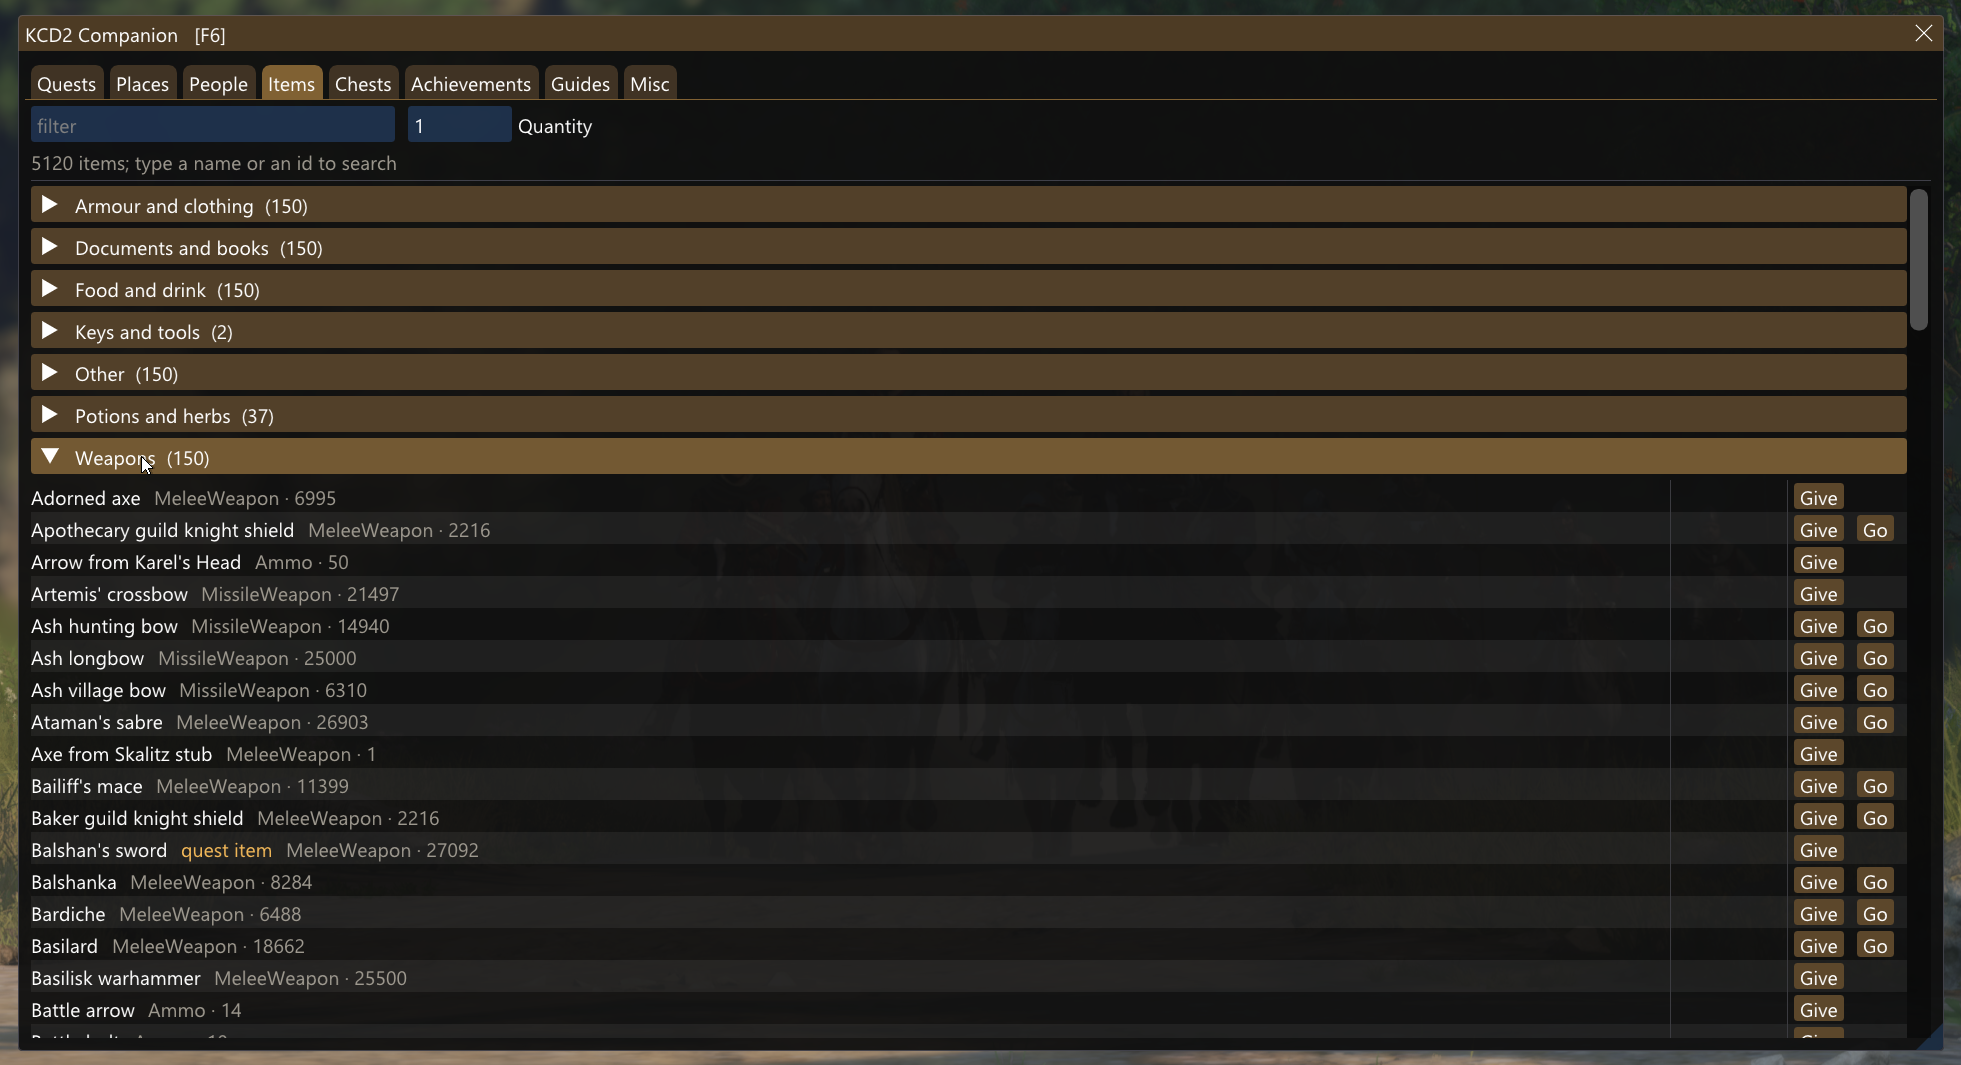
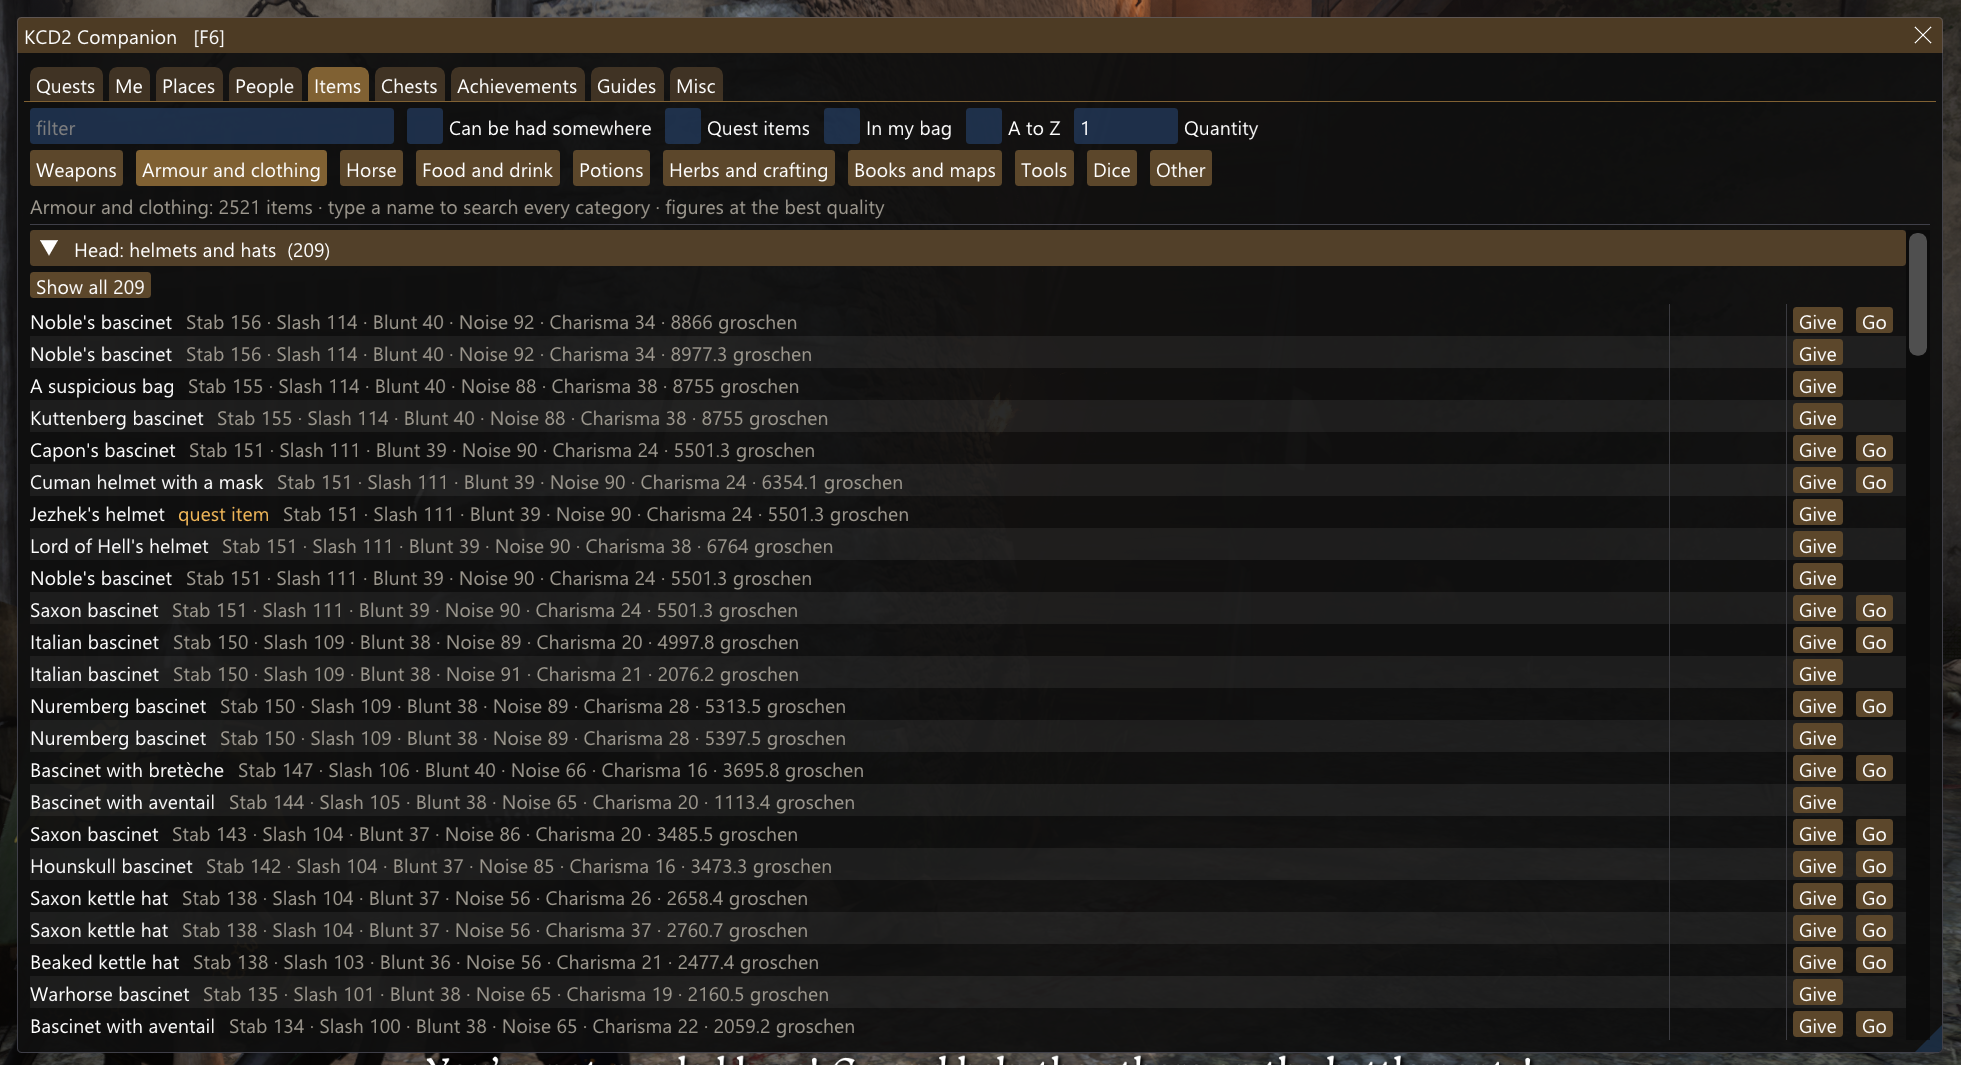
KCD2 Companion 1.1.0: Items laid out like a shop; link KCD Companion

diff --git a/README.md b/README.md
@@ -1,6 +1,6 @@
 # KCD2 Companion
 
-The full suite for **Kingdom Come: Deliverance II**, in one window inside the game (**F6**) or a browser panel on a second screen. **Quests**: go straight to your current objective, or skip the busywork up to the next real decision. **Items**: give yourself any of the game's 5,120 items, or go to where one is sold or lying. **Achievements**: see which of the 83 you have and the quest that grants each, and unlock any of them. Then Henry's stats, skills and money, nine cheat modes, and every person, place and chest around you. The decisions stay yours: an objective that can end more than one way shows each ending, and the mod never picks one.
+The full suite for **Kingdom Come: Deliverance II**, in one window inside the game (**F6**) or a browser panel on a second screen. **Quests**: go straight to your current objective, or skip the busywork up to the next real decision. **Items**: all 5,120 laid out like a shop, best first with their damage, armour and price; give yourself any of them, or go to where one is sold or lying. **Achievements**: see which of the 83 you have and the quest that grants each, and unlock any of them. Then Henry's stats, skills and money, nine cheat modes, and every person, place and chest around you. The decisions stay yours: an objective that can end more than one way shows each ending, and the mod never picks one.
 
 ![The F6 window: Quests](screenshots/quests.png)
 
@@ -12,23 +12,23 @@ The full suite for **Kingdom Come: Deliverance II**, in one window inside the ga
 ## Features
 
 - **Quests**: every current objective with **Go** (to its marker), **Summon** (when the marker is a person) and **Skip** (through the quest's own trigger, so the game's consequences run). **Skip to next decision** completes busywork one step at a time and stops at a decision, a conversation or a scene, then takes you there. Views of every objective and every open ending.
-- **Items**: all 5,120 items; **Give** any quantity; **Go** to the shops, chests and spots one can be had, nearest first.
+- **Items**: all 5,120 in a category bar like the inventory's (weapons, armour and clothing, horse, food and drink, potions, herbs and crafting, books and maps, tools, dice, other), each category in the groups you look for: swords to firearms, helmet to boots, healing to poison, skill books by skill and volume. Best first, with the damage, defence, power, noise, charisma or nourishment and the price beside each name, as the inventory shows them at the item's best quality. **Give** any quantity; **Go** to the shops, chests and spots one can be had, nearest first.
 - **Achievements**: all 83 Steam achievements with your earned state, each with the quest that grants it where the game says; **Unlock** sets an unearned one on your Steam account.
 - **Me**: health, stamina, nourishment and energy (refill one or all), groschen in steps up to +10,000, the four attributes and fifteen skills (+1 / +5 / Max).
 - **Misc**: Save now (no schnapps), Bring my horse, and nine **cheat modes**: God mode, Infinite stamina, Never hungry or tired, Unseen and unheard, Run twice as fast, Hit twice as hard, Gear never wears, Carry far more, Learn three times as fast.
 - **People**: everyone loaded around you, by in-game name, with Go and Summon.
 - **Places**: villages, towns, monasteries and camps with their shops, smithies, alchemy tables, grindstones, baths, barbers and beds; **Mark** and **Back**.
 - **Chests**: every container in the level, locked ones marked.
-- **Views** on every long list: items that can be had somewhere, quest items, what is in your bag, most valuable first; locked, unlocked or stocked chests; people within 50 m; shops or services only.
+- **Views** on every long list: items that can be had somewhere, quest items, what is in your bag, A to Z; locked, unlocked or stocked chests; people within 50 m; shops or services only.
 - **F8** goes to the tracked quest's nearest current objective.
 - Jumps work on foot and on horseback, land on the floor under roofs and trees, and never inside a trigger area.
 - **Languages**: English and Chinese for now, picked by your game's language setting; names, objectives and journal lines always come from the game's own text, in whatever language it runs.
 
 ## Install
 
-**Installer**: download **`KCD2-Companion-1.0.0-Installer.exe`** from the [latest release](../../releases) and run it. It finds the game through Steam (or paste the game folder), installs with one click, updates and uninstalls, and shows the panel in its own window while the game runs. Windows may warn about an unknown publisher: More info > Run anyway.
+**Installer**: download **`KCD2-Companion-1.1.0-Installer.exe`** from the [latest release](../../releases) and run it. It finds the game through Steam (or paste the game folder), installs with one click, updates and uninstalls, and shows the panel in its own window while the game runs. Windows may warn about an unknown publisher: More info > Run anyway.
 
-**Manual**: download **`KCD2-Companion-1.0.0.zip`** from the same release and extract it into the game folder (Steam: right-click the game > Manage > Browse local files), keeping its folders. Start the game and load a save; press **F6**, or open **http://127.0.0.1:17602** in a browser on the same PC. `INSTALL.txt` in the zip lists every file it adds; deleting them uninstalls it.
+**Manual**: download **`KCD2-Companion-1.1.0.zip`** from the same release and extract it into the game folder (Steam: right-click the game > Manage > Browse local files), keeping its folders. Start the game and load a save; press **F6**, or open **http://127.0.0.1:17602** in a browser on the same PC. `INSTALL.txt` in the zip lists every file it adds; deleting them uninstalls it.
 
 Also on Nexus Mods: https://www.nexusmods.com/kingdomcomedeliverance2/mods/3812
 
@@ -38,7 +38,7 @@ Built and tested on Steam build **1.5.6** (23914554). The plugin reads the game'
 
 ## Kingdom Come: Deliverance (the first game)
 
-The first game's trainer is **Quest Autopilot** on Nexus Mods: https://www.nexusmods.com/kingdomcomedeliverance/mods/2226. Its full version, with the same window, panel and tabs as this one, will be released as **KCD Companion**.
+The first game's trainer, with the same window, panel and tabs, is **KCD Companion**: https://github.com/registered2nd/kcd-companion (Nexus Mods: https://www.nexusmods.com/kingdomcomedeliverance/mods/2406). Quest Autopilot is part of it.
 
 ## Credits
 
